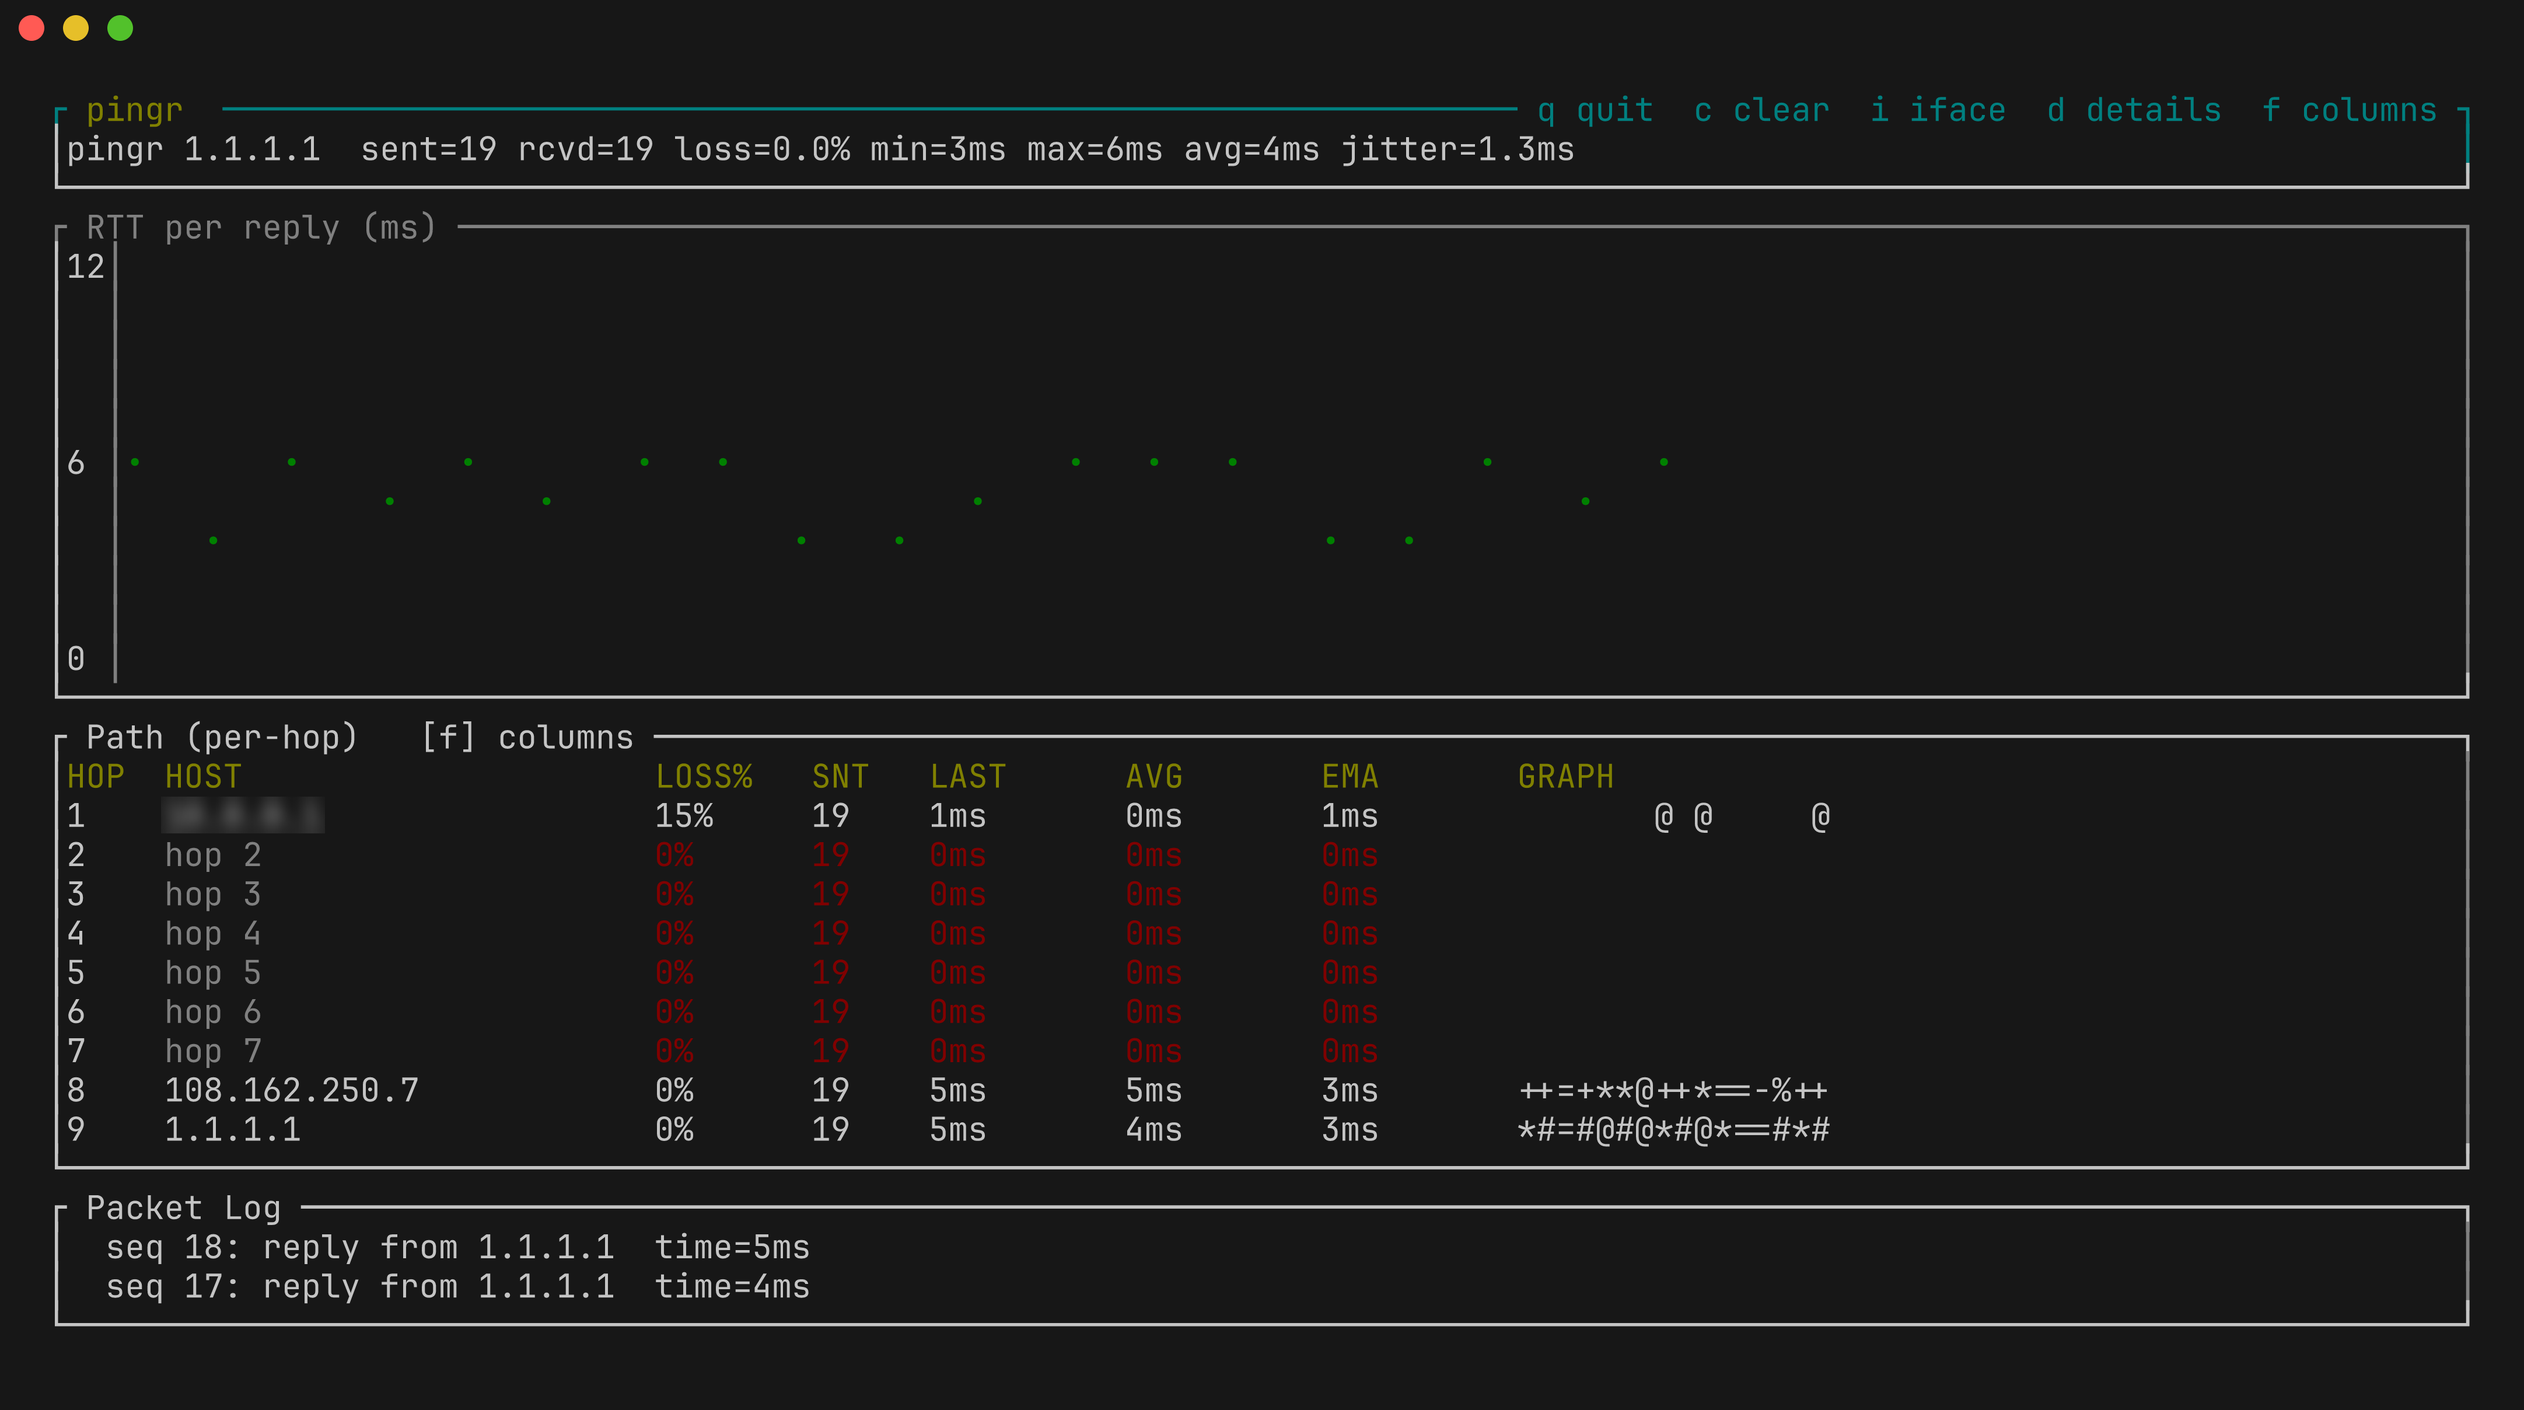
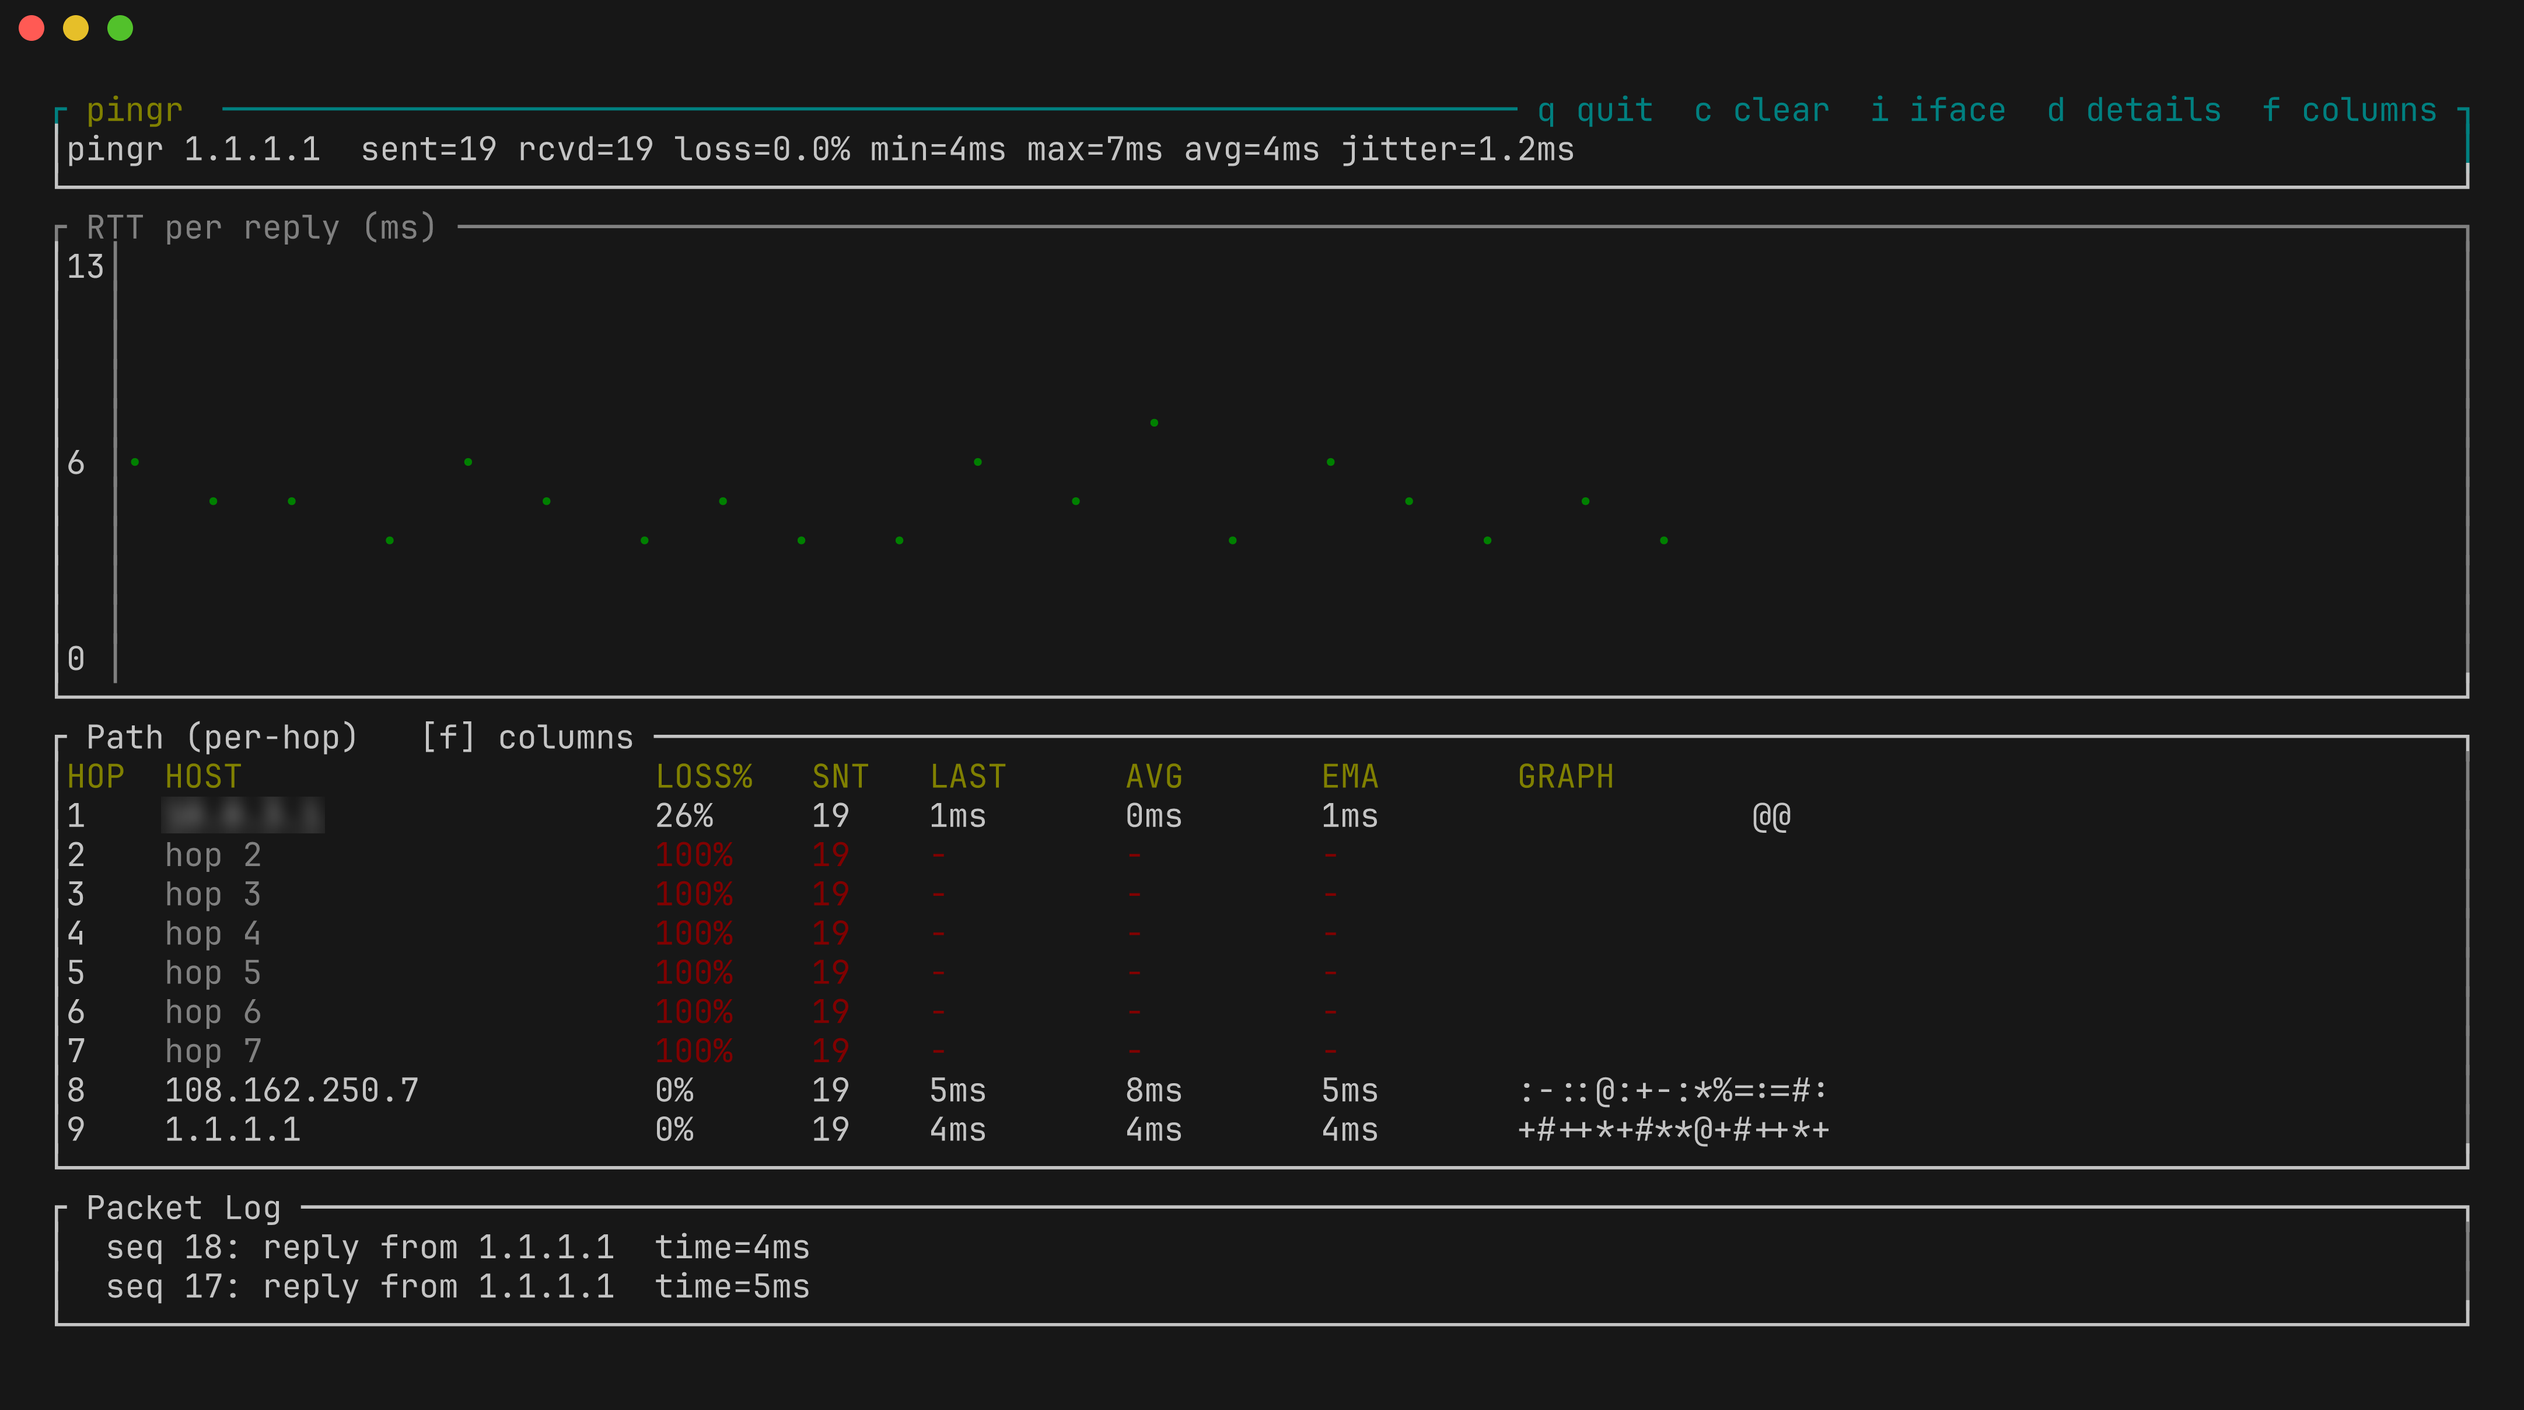
Show 100% loss for silent hops and add a guide to reading results
- Hop::st() returned zero loss when a hop had no replies, so hops that
  never answer showed 0% in red. Loss is now computed regardless of
  samples, and timing columns show "-" instead of a fake 0ms.
- docs/reading-results.md: why middle hops go blank, a worked example,
  typical Australian latencies, thresholds per traffic type, and wired
  vs Wi-Fi vs mobile/satellite differences. Linked from the README.
- Retake the trace screenshot.

diff --git a/src/main.rs b/src/main.rs
@@ -74,21 +74,17 @@ struct Hop {
 impl Hop {
     fn st(&self) -> (u64, u64, u64, u32, u32) {
         let s = &self.samples;
+        let loss = (100 * self.sent.saturating_sub(self.rcvd) / self.sent.max(1)) as u32;
         if s.is_empty() {
-            return (0, 0, 0, 0, 0);
+            // no replies yet: timings are unknown, but every probe sent was lost
+            return (0, 0, 0, 0, loss);
         }
         let sum: u64 = s.iter().sum();
         let min = s.iter().min().copied().unwrap();
         let max = s.iter().max().copied().unwrap();
         let mean = sum as f64 / s.len() as f64;
         let var = s.iter().map(|x| (*x as f64 - mean).powi(2)).sum::<f64>() / s.len() as f64;
-        (
-            sum / s.len() as u64,
-            min,
-            max,
-            var.sqrt() as u32,
-            (100 * self.sent.saturating_sub(self.rcvd) / self.sent.max(1)) as u32,
-        )
+        (sum / s.len() as u64, min, max, var.sqrt() as u32, loss)
     }
 }
 
@@ -975,6 +971,14 @@ fn hop_cells(i: usize, h: &Hop, wide: bool, ascii: bool) -> Vec<(String, Option<
     let (avg, min, max, sd, loss) = h.st();
     let last = h.samples.last().copied().unwrap_or(0);
     let bad = (h.ip.is_some() && loss >= 100) || (h.ip.is_none() && h.sent > 0);
+    // no replies: show "-" rather than a fake 0ms
+    let ms = |v: u64| {
+        if h.samples.is_empty() {
+            "-".to_string()
+        } else {
+            format!("{v}ms")
+        }
+    };
     let mut c = vec![
         ((i + 1).to_string(), None),
         (
@@ -994,14 +998,26 @@ fn hop_cells(i: usize, h: &Hop, wide: bool, ascii: bool) -> Vec<(String, Option<
     if wide {
         c.push((h.rcvd.to_string(), None));
     }
-    c.push((format!("{last}ms"), grade_color(last, ascii)));
-    c.push((format!("{avg}ms"), None));
+    let last_col = if h.samples.is_empty() {
+        None
+    } else {
+        grade_color(last, ascii)
+    };
+    c.push((ms(last), last_col));
+    c.push((ms(avg), None));
     if wide {
-        c.push((format!("{min}ms"), None));
-        c.push((format!("{max}ms"), None));
-        c.push((sd.to_string(), None));
+        c.push((ms(min), None));
+        c.push((ms(max), None));
+        c.push((
+            if h.samples.is_empty() {
+                "-".into()
+            } else {
+                sd.to_string()
+            },
+            None,
+        ));
     }
-    c.push((format!("{}ms", h.ema), None));
+    c.push((ms(h.ema as u64), None));
     c.push((sparkline(&h.spark, ascii), None));
     c
 }
@@ -1563,6 +1579,23 @@ mod tests {
             ..Hop::default()
         };
         assert_eq!(h.st().4, 0);
+    }
+
+    #[test]
+    fn silent_hop_is_full_loss_with_blank_times() {
+        let h = Hop {
+            sent: 19,
+            ..Hop::default()
+        };
+        assert_eq!(h.st().4, 100);
+        let c: Vec<String> = hop_cells(1, &h, false, true)
+            .into_iter()
+            .map(|(t, _)| t)
+            .collect();
+        assert_eq!(c[2], "100%");
+        assert_eq!(&c[4..7], ["-", "-", "-"]); // last, avg, ema
+                                               // never probed yet: no loss to report
+        assert_eq!(Hop::default().st().4, 0);
     }
 
     #[test]

diff --git a/docs/reading-results.md b/docs/reading-results.md
@@ -1,0 +1,178 @@
+# Reading pingr results
+
+A guide for people new to ping and path tracing: what the numbers mean, what is
+normal, and when something is actually wrong. Examples assume a home connection
+in Australia, but the reasoning applies anywhere.
+
+## The one rule
+
+**Only the last hop matters for loss.** If the destination shows 0% loss, your
+traffic is getting through, no matter how bad the hops in the middle look.
+Loss is only real when it starts at some hop and *carries through to every hop
+after it, including the destination*.
+
+## Why some hops show 100% loss or nothing at all
+
+Tracing works by sending probes that are allowed to cross 1 router, then 2,
+then 3, and so on. The router where a probe runs out is supposed to send back
+an ICMP "time exceeded" message, which is how pingr learns that hop's address
+and timing. A blank hop (`hop 4`, `100%`, `-`) is a router that forwarded your
+traffic perfectly well but did not send that message, or sent one that was
+dropped on the way back.
+
+Common reasons:
+
+- **Rate limiting and priority.** Routers forward traffic in hardware at full
+  speed, but building an ICMP reply needs the router's much slower CPU. Vendors
+  cap that by default and ISPs often turn it down further or off. Trace replies
+  are the lowest priority job a router has.
+- **Hiding the network.** Many ISPs filter these replies from their core
+  routers so outsiders cannot map their internal layout or target the routers.
+- **MPLS and tunnels.** ISP backbones often carry traffic in label-switched
+  tunnels. Routers inside the tunnel may not answer, or answer with odd timings.
+- **Private addresses.** Some routers answer from private or carrier-grade NAT
+  addresses (`100.64.0.0/10`), and filters on the way back drop those replies.
+
+The same rate limiting explains a hop that shows *some* loss (say 20 to 30%)
+while every hop after it is clean: the router is answering as many probes as
+its limit allows. Home routers do this too, so even hop 1 can show loss.
+
+## A worked example
+
+A household in Sydney on an NBN fibre (FTTP) plan, wired to the router, runs
+`pingr -t 1.1.1.1`:
+
+| Hop | Host | Loss | Avg | What it is |
+|---|---|---|---|---|
+| 1 | 192.168.1.1 | 25% | 1ms | Home router. The loss is rate limiting: hops after it are clean |
+| 2 | hop 2 | 100% | - | ISP access network (NBN handover to the ISP), not answering |
+| 3 | 203.0.113.10 | 0% | 4ms | ISP router that does answer |
+| 4 to 6 | hop 4 to 6 | 100% | - | ISP core, filtered |
+| 7 | 108.162.x.x | 0% | 5ms | Cloudflare edge in Sydney |
+| 8 | 1.1.1.1 | 0% | 5ms | Destination |
+
+Verdict: healthy. The destination has 0% loss and a low, steady latency. The
+blank and lossy middle hops are routers declining to answer, nothing more.
+
+What a real problem looks like, from the same house:
+
+| Hop | Host | Loss | Avg |
+|---|---|---|---|
+| 1 | 192.168.1.1 | 0% | 1ms |
+| 2 | hop 2 | 100% | - |
+| 3 | 203.0.113.10 | 12% | 38ms |
+| 4 | 203.0.113.25 | 11% | 41ms |
+| 7 | 108.162.x.x | 12% | 44ms |
+| 8 | 1.1.1.1 | 12% | 45ms |
+
+Loss and latency both jump at hop 3 and stay there all the way to the
+destination. Something at or just before hop 3 (the NBN connection or the
+ISP's first router) is congested or faulty. This is the kind of output worth
+sending to your ISP's support team.
+
+### Typical Australian latencies
+
+Rough round-trip times from a wired NBN fibre or HFC connection. FTTN/FTTC
+copper adds a few milliseconds; satellite and fixed wireless are covered
+further down.
+
+| Destination | Typical round trip |
+|---|---|
+| Your router | under 1ms wired, 2 to 10ms over Wi-Fi |
+| ISP's first router | 3 to 10ms |
+| CDN in your capital city (Cloudflare, Google, Akamai) | 3 to 15ms |
+| Another Australian capital (Sydney to Melbourne or Brisbane) | 10 to 25ms |
+| Sydney to Perth | 45 to 60ms |
+| New Zealand | 25 to 40ms |
+| Singapore | 90 to 120ms |
+| US west coast | 140 to 170ms |
+| US east coast | 200 to 240ms |
+| Europe | 260 to 320ms |
+
+Overseas numbers are mostly the speed of light in undersea cable. No plan or
+router upgrade will make Sydney to London much faster than about 260ms.
+
+## How much is too much
+
+Thresholds for the destination's results. Jitter is how much latency changes
+from one reply to the next (pingr shows it in the stats bar).
+
+| Metric | Good | Noticeable | Poor |
+|---|---|---|---|
+| Latency (to an Australian server) | under 30ms | 30 to 80ms | over 80ms |
+| Jitter | under 5ms | 5 to 20ms | over 20ms |
+| Loss | 0% | 0.5 to 2% | over 2% |
+
+How the same numbers affect different traffic:
+
+| Traffic | Latency | Jitter | Loss | What you notice |
+|---|---|---|---|---|
+| Web browsing | fine to about 150ms | rarely matters | 1 to 2% causes slow loads | Pages hang before loading |
+| Streaming video (Netflix, YouTube) | barely matters | barely matters | buffering hides up to a few % | Lower quality or buffering when loss is sustained |
+| Video and voice calls (Teams, Zoom, FaceTime) | under 150ms is fine | over 30ms causes choppy audio | over 1% causes robotic voice and frozen video | Talking over each other, dropouts |
+| Online gaming | under 50ms competitive, under 100ms casual | over 10ms feels inconsistent | any loss causes rubber-banding | Lag, teleporting players |
+| Remote desktop and SSH | under 100ms feels local | over 20ms makes typing feel uneven | over 1% causes stalls | Delayed keystrokes, frozen screen |
+| Large downloads and backups | barely matters | barely matters | over 1% can noticeably cut speed | Slow transfers |
+
+Notes:
+
+- **Loss hurts more than latency.** A steady 60ms is better for almost
+  everything than 20ms with 3% loss.
+- **Judge over minutes, not seconds.** A single lost reply is normal. Let pingr
+  run for a few minutes (or `--rounds 300`) before deciding anything.
+- **Test at the right time.** Congestion usually shows up in the evening peak,
+  roughly 7pm to 11pm. A test at 2pm can look perfect while the problem is real.
+
+## Wired versus wireless
+
+Where you test from changes what you see, especially in the first hop.
+
+### Ethernet
+
+- Router latency under 1ms and jitter close to 0.
+- Any loss or jitter is almost certainly beyond your house.
+- Best way to test your internet connection itself. If you are chasing a
+  problem, plug in a cable first so Wi-Fi is ruled out.
+
+### Wi-Fi
+
+- Router latency of 2 to 10ms is normal, with regular spikes to 30 to 100ms or
+  more. Jitter is higher everywhere along the path because Wi-Fi adds it at
+  hop 1.
+- Spikes come from devices taking turns on a shared channel, neighbouring
+  networks on the same channel (very common in apartments), background scanning,
+  and power saving on phones and laptops (devices doze between packets, so the
+  first reply after a quiet period is slow).
+- 5 GHz and 6 GHz are usually steadier than 2.4 GHz but reach less far through
+  walls.
+- Mesh systems add latency for each wireless hop between nodes; a node with a
+  cabled (Ethernet) backhaul behaves close to the main router.
+- Quick check: if hop 1 is jumpy, the problem is your Wi-Fi, not your ISP. Run
+  pingr against your router alone (`pingr 192.168.1.1`, or whatever hop 1 shows)
+  and watch for spikes.
+
+### Mobile and fixed wireless
+
+| Connection | Typical latency to a capital city server | Notes |
+|---|---|---|
+| 4G | 30 to 60ms | Varies with signal and tower load |
+| 5G | 15 to 40ms | Falls back to 4G when signal is weak |
+| NBN Fixed Wireless | 20 to 50ms | Evening congestion common in busy areas |
+| Low Earth orbit satellite (e.g. Starlink) | 25 to 60ms | Brief loss or spikes every few minutes as satellites hand over; this is normal |
+| NBN Sky Muster (geostationary satellite) | 600ms or more | Physics: the satellite is about 36,000km up. Fine for browsing and streaming, hard for calls and games |
+
+On all of these, the first few hops are usually inside the carrier's network
+and often stay blank, and jitter is higher than on fixed lines.
+
+## Quick checklist
+
+1. Look at the **destination's** loss first. 0% means traffic is getting
+   through.
+2. If there is loss, find the **first hop where it starts and stays**. That is
+   where the problem is.
+3. Ignore blank or lossy hops in the middle when later hops are clean.
+4. Check **hop 1**: jumpy on Wi-Fi means fix the Wi-Fi before blaming the ISP.
+5. Compare to the **latency table** for where the server is. High latency to
+   Europe is normal; high latency to Sydney from Sydney is not.
+6. Test during the **evening peak** and for **a few minutes** before drawing
+   conclusions.

diff --git a/README.md b/README.md
@@ -137,6 +137,17 @@ cargo clippy
 - Built with [ratatui](https://ratatui.rs), [crossterm](https://github.com/crossterm-rs/crossterm)
   and [clap](https://github.com/clap-rs/clap).
 
+## Reading the results
+
+New to ping and path tracing? Read [docs/reading-results.md](docs/reading-results.md).
+It explains why middle hops often show 100% loss (usually routers declining to
+answer, not a fault), what a real problem looks like, typical Australian
+latencies, thresholds for calls, gaming and streaming, and how wired, Wi-Fi,
+mobile and satellite connections differ.
+
+The short version: judge loss at the destination. Loss only matters when it
+starts at a hop and carries through to every hop after it.
+
 ## License
 
 MIT, see [LICENSE](LICENSE).
